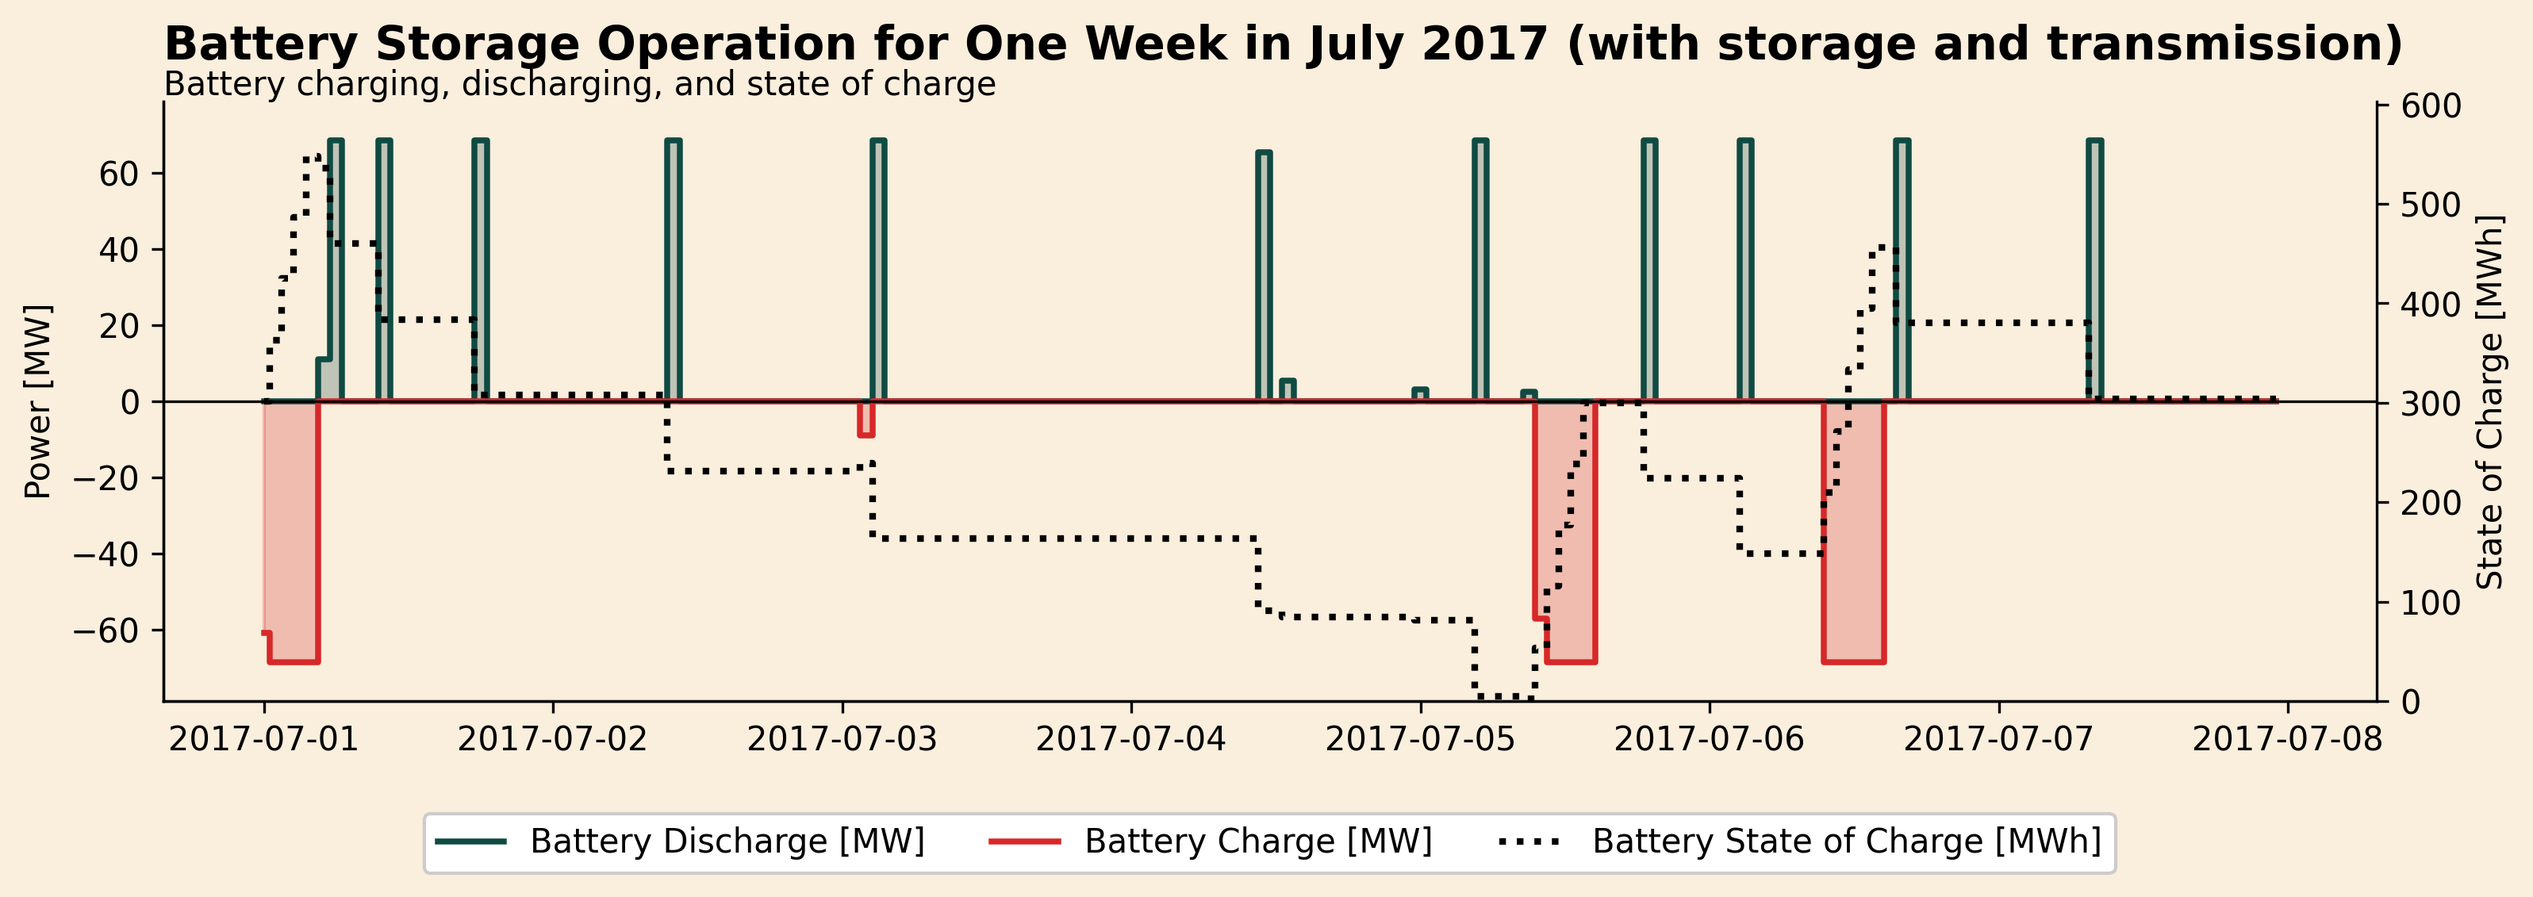
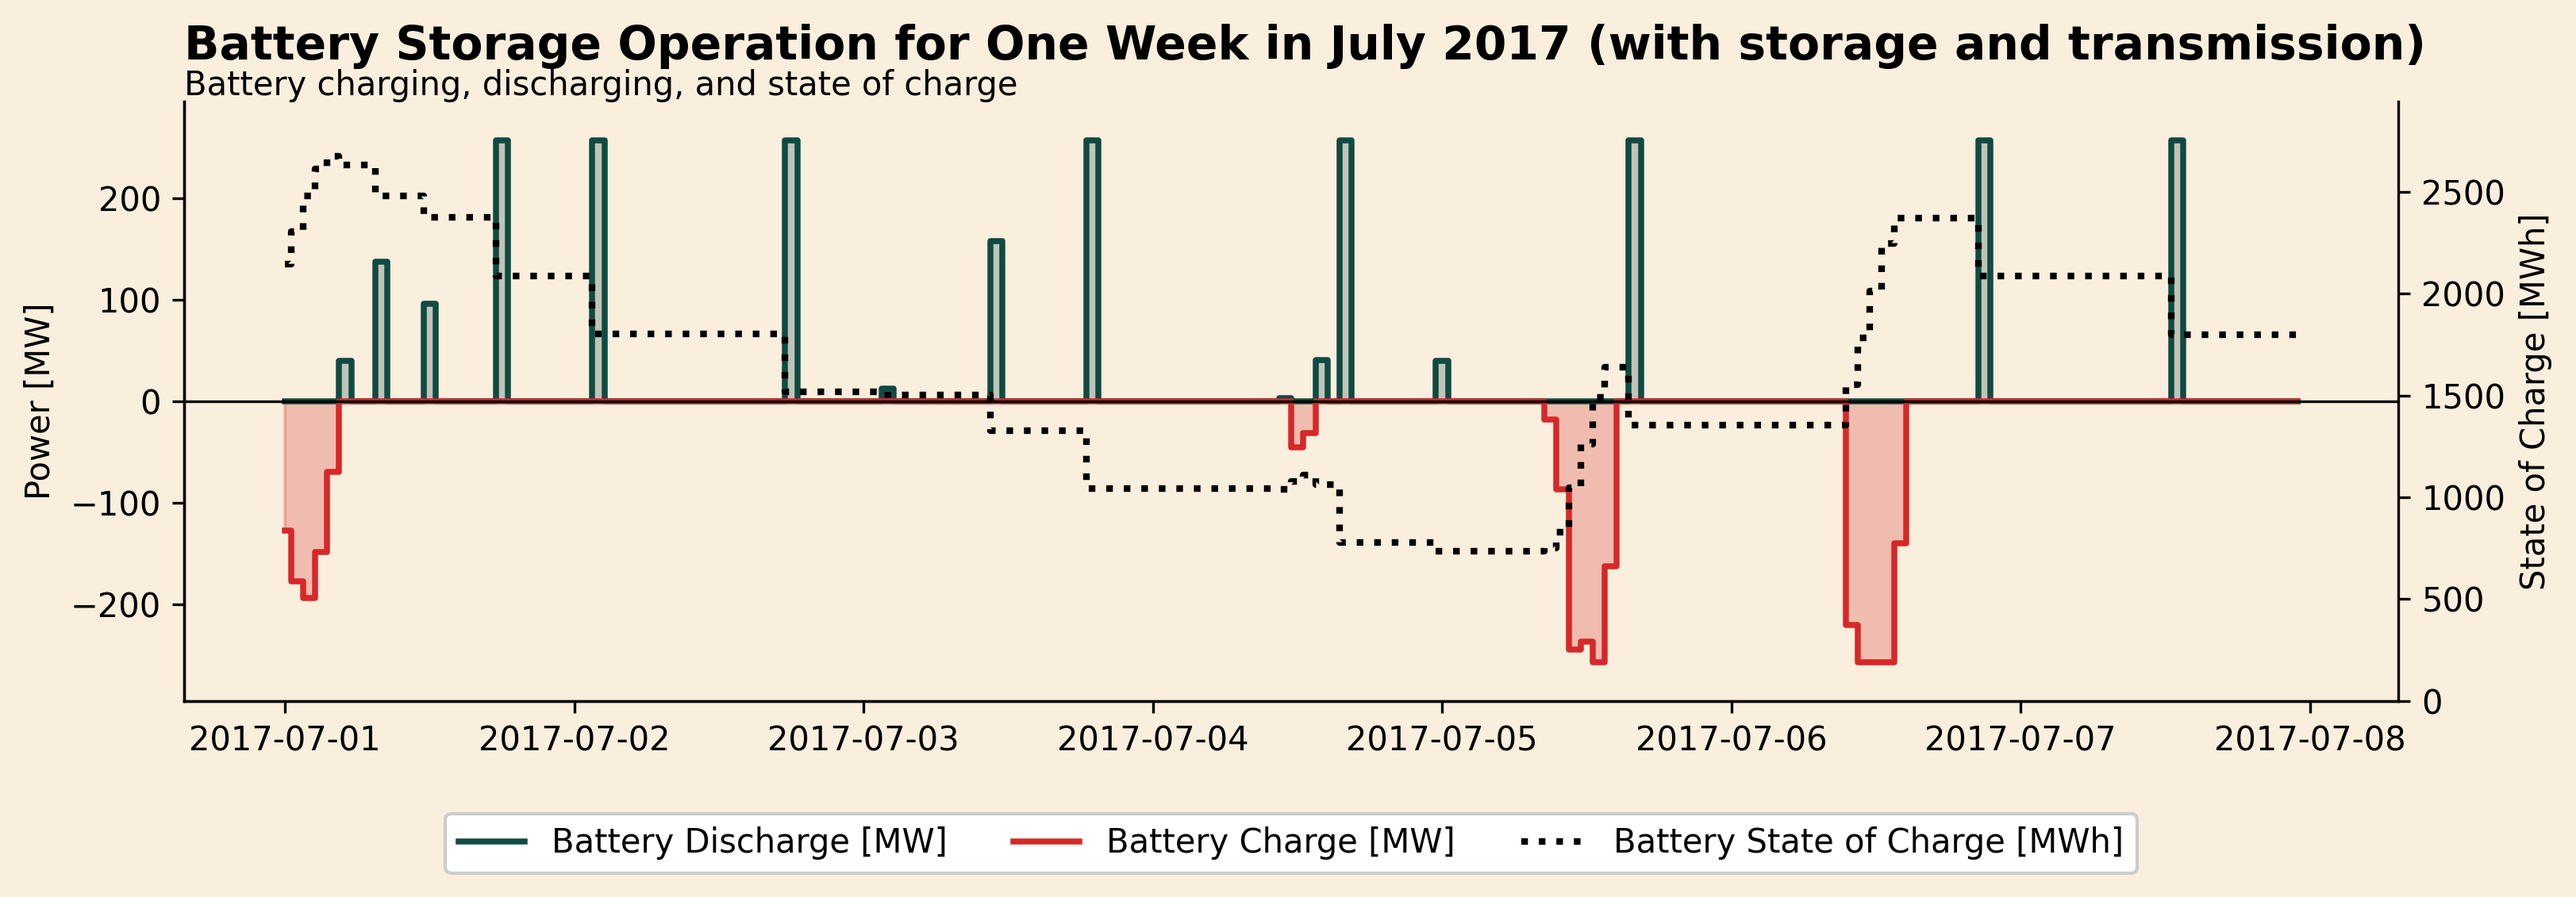
increased battery

diff --git a/plotter.py b/plotter.py
@@ -51,10 +51,11 @@ def plot_annual_energy_mix(df, title, show=False, save=True):
     colors, background_color = color_palette()
 
     components = [
-        ("Wind Generator Estonia", "Wind", colors[13]),
-        ("Solar Generator Estonia", "Solar", colors[12]),
         ("OCGT Estonia", "Gas", colors[14]),
         ("Coal Estonia", "Coal", colors[15]),
+        ("Solar Generator Estonia", "Solar", colors[12]),
+        ("Wind Generator Estonia", "Wind", colors[13]),
+
     ]
 
     if "Battery Discharge Estonia" in df.columns:

diff --git a/main.py b/main.py
@@ -187,7 +187,7 @@ print("--------------------------------------------------------")
 # https://kliimaministeerium.ee/sites/default/files/documents/2024-04/Energy%20summary_2024.pdf?
 base_co2 = 28_000_000
     
-    
+
 scenario_results = []
     
 co2_limits = [base_co2, 0.2 * base_co2, 0.1 * base_co2, 0.05 * base_co2] # in tons of CO2

diff --git a/network.py b/network.py
@@ -120,7 +120,7 @@ class Network():
         efficiency_store = 0.9
         efficiency_dispatch = 0.9
 
-        max_hours = 8  # energy capacity = power * hours
+        max_hours = 12  # energy capacity = power * hours
 
         self.network.add("StorageUnit",
                         "Battery Storage Estonia",
